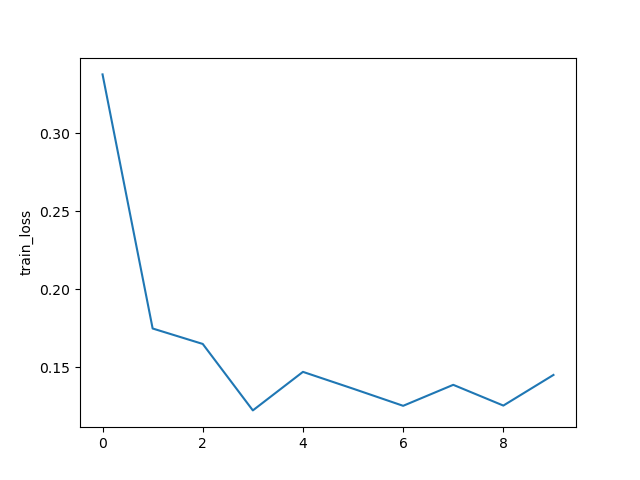
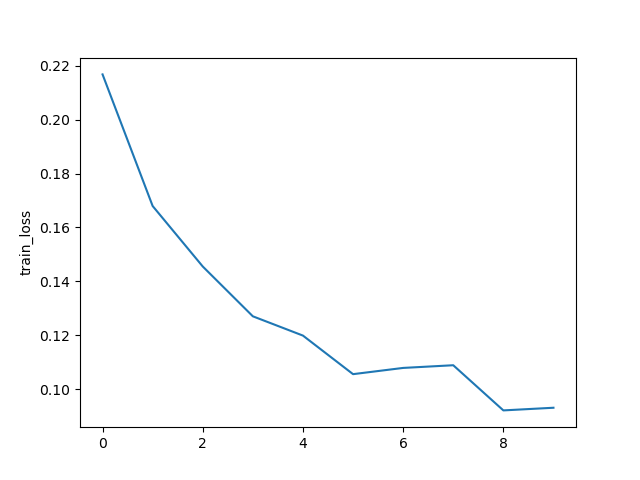
Update

diff --git a/Server.py b/Server.py
@@ -78,50 +78,49 @@ if __name__ == '__main__':
             else:
                 w_locals.append(copy.deepcopy(w))
             loss_locals.append(copy.deepcopy(loss))
-        # update global weights
-       # w_glob = FedAvg(w_locals)
-     
+        loss_avg = sum(loss_locals) / len(loss_locals)
+        if (iter==0):
+           print('Before aggregation')
+           print(' Average loss {:.3f}'.format(loss_avg))
+        else:
+          print('Round {:3d}, Average loss {:.3f}'.format(iter-1, loss_avg))
+        loss_train.append(loss_avg)
         w_locals= np.array(w_locals)
-        initial_population=w_locals
+        if (args.aggr=='fedAVG'):
+            # update global weights
+            w_glob = FedAvg(w_locals)
+        elif (args.aggr=='fedGA'):
+             initial_population=w_locals
        
-        for d in w_locals: # for each user
-          print(type(d))
-          print('user ',i+1)
-          weight=[]
-          if isinstance(d, dict):
-            for x in d.items():  #get weights of each layer
-                 array = np.array(x[1], dtype='f')#1 is a tensor
-                 array= array.flatten()
-                 weight= np.concatenate((weight, array), axis=0)
-            initial_population[i]= np.array(weight,dtype='f')
-           
-         
-        
-
-         #print(weight) 
-         
-          
-          
-          i=i+1
+             for d in w_locals: # for each user
+                weight=[]
+                if isinstance(d, dict):
+                     for x in d.items():  #get weights of each layer
+                         array = np.array(x[1], dtype='f')#1 is a tensor
+                         array= array.flatten()
+                         weight= np.concatenate((weight, array), axis=0)
+                         initial_population[i]= np.array(weight,dtype='f')
+                i=i+1 # next weight vector (user)
        
-        w_glob = FedGA(initial_population,net_glob,dataset_validate)
-        # copy weight to net_glob
+             w_glob = FedGA(initial_population,net_glob,dataset_validate)
+             # copy weight to net_glob
         net_glob.load_state_dict(w_glob)
 
         # print loss
-        loss_avg = sum(loss_locals) / len(loss_locals)
-        print('Round {:3d}, Average loss {:.3f}'.format(iter, loss_avg))
-        loss_train.append(loss_avg)
+        
 
     # plot loss curve
     plt.figure()
     plt.plot(range(len(loss_train)), loss_train)
     plt.ylabel('train_loss')
-    plt.savefig('./save/fed_{}_{}_{}_C{}_iid{}.png'.format(args.dataset, args.model, args.epochs, args.frac, args.iid))
+    plt.savefig('./save/fed_{}_{}_{}_C{}_iidFEDGA{}.png'.format(args.dataset, args.model, args.epochs, args.frac, args.iid))
 
     # testing
     net_glob.eval()
+    print('train Test')
+    dataset_train=  DataLoader(dataset_train)
     acc_train, loss_train = net_glob.test_img(net_glob, dataset_train, args)
+    print('test Test')
     acc_test, loss_test = net_glob.test_img(net_glob, dataset_test, args)
     print("Training accuracy: {:.2f}".format(acc_train))
     print("Testing accuracy: {:.2f}".format(acc_test))

diff --git a/Options.py b/Options.py
@@ -10,7 +10,7 @@ def args_parser():
     parser.add_argument('--epochs', type=int, default=20, help="rounds of training")
     parser.add_argument('--num_users', type=int, default=10, help="number of users: K")
     parser.add_argument('--frac', type=float, default=0.1, help="the fraction of clients: C")
-    parser.add_argument('--local_ep', type=int, default=20, help="the number of local epochs: E")
+    parser.add_argument('--local_ep', type=int, default=50, help="the number of local epochs: E")
     
     parser.add_argument('--local_bs', type=int, default=10, help="local batch size: B")
     parser.add_argument('--bs', type=int, default=128, help="test batch size")
@@ -29,6 +29,7 @@ def args_parser():
                         help="Whether use max pooling rather than strided convolutions")
 
     # other arguments
+    parser.add_argument('--aggr', type=str, default='fedAVG', help="name of aggregation method")
     parser.add_argument('--dataset', type=str, default='mnist', help="name of dataset")
     parser.add_argument('--iid', action='store_true', help='whether i.i.d or not')
     parser.add_argument('--num_classes', type=int, default=10, help="number of classes")

diff --git a/Model.py b/Model.py
@@ -33,9 +33,9 @@ class CNNMnist(nn.Module):
         test_loss = 0
         correct = 0
         data_loader = DataLoader(datatest, batch_size=args.bs)
-        l = len(data_loader)
+        l = len(datatest)
         #print(DataLoader)
-        for idx, (data, target) in enumerate(data_loader):
+        for idx, (data, target) in enumerate(datatest):
            #if args.gpu != -1:
            #   data, target = data.cuda(), target.cuda()
            log_probs = net_g(data)
@@ -45,11 +45,11 @@ class CNNMnist(nn.Module):
            y_pred = log_probs.data.max(1, keepdim=True)[1]
            correct += y_pred.eq(target.data.view_as(y_pred)).long().cpu().sum()
 
-        test_loss /= len(data_loader.dataset)
-        accuracy = 100.00 * correct / len(data_loader.dataset)
+        test_loss /= len(datatest.dataset)
+        accuracy = 100.00 * correct / len(datatest.dataset)
         if args.verbose:
             print('\nTest set: Average loss: {:.4f} \nAccuracy: {}/{} ({:.2f}%)\n'.format(
-            test_loss, correct, len(data_loader.dataset), accuracy))
+            test_loss, correct, len(datatest.dataset), accuracy))
         return accuracy, test_loss
 
 

diff --git a/Client.py b/Client.py
@@ -14,11 +14,12 @@ import random
 from sklearn import metrics
 class Client(object):
 
-     def __init__(self, id,model, dataset,accuracy=None):
+     def __init__(self, id,model, dataset,accuracy=None):#,device
          self.id=id
          self.dataset=dataset
          self.model=model
          self.accuracy=None
+         #self.device=device,
     
 
 class DatasetSplit(Dataset):
@@ -41,7 +42,7 @@ class LocalUpdate(object):
         self.args = args
         self.loss_func = nn.CrossEntropyLoss()
         self.selected_clients = []
-        self.ldr_train = DataLoader(DatasetSplit(dataset, idxs), batch_size=self.args.local_bs, shuffle=True)
+        self.ldr_train = DataLoader(DatasetSplit(dataset, idxs), shuffle=True,batch_size=args.local_bs)
 
     def train(self, net):
 

diff --git a/FedGA.py b/FedGA.py
@@ -13,7 +13,7 @@ loss_function = nn.CrossEntropyLoss()
 def fitness(solution, sol_idx):
    
         loss=0.0
-        print('solution',solution)
+      
         model_weights_dict = tg.model_weights_as_dict(model=model, weights_vector=solution)
         model.load_state_dict(model_weights_dict)
 
